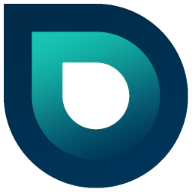
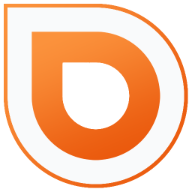
feat: add pallete

diff --git a/src/components/Header.tsx b/src/components/Header.tsx
@@ -89,7 +89,7 @@ export const Header: React.FC = () => {
             <span className="sr-only">Vain</span>
             <picture>
               <img
-                className="h-8 w-auto sm:h-10"
+                className="h-8 w-auto sm:h-14"
                 src="/logo.png"
                 alt="Vain logo"
               />
@@ -97,7 +97,7 @@ export const Header: React.FC = () => {
           </a>
         </div>
         <div className="-my-2 -mr-2 md:hidden">
-          <Popover.Button className="inline-flex items-center justify-center rounded-md bg-white p-2 text-gray-400 hover:bg-gray-100 hover:text-gray-500 focus:outline-none focus:ring-2 focus:ring-inset focus:ring-indigo-500">
+          <Popover.Button className="inline-flex items-center justify-center rounded-md bg-white p-2 text-gray-400 hover:bg-gray-100 hover:text-gray-500 focus:outline-none focus:ring-2 focus:ring-inset focus:ring-orange-500">
             <span className="sr-only">Open menu</span>
             <Bars3Icon className="h-6 w-6" aria-hidden="true" />
           </Popover.Button>
@@ -108,14 +108,14 @@ export const Header: React.FC = () => {
               <>
                 <Popover.Button
                   className={classNames(
-                    open ? 'text-gray-900' : 'text-gray-500',
-                    'group inline-flex items-center rounded-md bg-transparent text-base font-medium hover:text-gray-900 focus:outline-none focus:ring-2 focus:ring-indigo-500 focus:ring-offset-2'
+                    open ? 'text-gray-900' : 'text-gray-700',
+                    'group inline-flex items-center rounded-md bg-transparent text-base font-medium hover:text-gray-900 focus:outline-none focus:ring-2 focus:ring-orange-500 focus:ring-offset-2'
                   )}
                 >
                   <span>Solutions</span>
                   <ChevronDownIcon
                     className={classNames(
-                      open ? 'text-gray-600' : 'text-gray-400',
+                      open ? 'text-gray-600' : 'text-gray-700',
                       'ml-2 h-5 w-5 group-hover:text-gray-500'
                     )}
                     aria-hidden="true"
@@ -140,7 +140,7 @@ export const Header: React.FC = () => {
                             href={solution.href}
                             className="-m-3 flex items-start rounded-lg p-3 hover:bg-gray-50"
                           >
-                            <div className="flex h-10 w-10 flex-shrink-0 items-center justify-center rounded-md bg-indigo-500 text-white sm:h-12 sm:w-12">
+                            <div className="flex h-10 w-10 flex-shrink-0 items-center justify-center rounded-md bg-orange-500 text-white sm:h-12 sm:w-12">
                               <solution.icon
                                 className="h-6 w-6"
                                 aria-hidden="true"
@@ -166,7 +166,7 @@ export const Header: React.FC = () => {
                             <div className="text-base font-medium text-gray-900">
                               Enterprise
                             </div>
-                            <span className="ml-3 inline-flex items-center rounded-full bg-indigo-100 px-3 py-0.5 text-xs font-medium leading-5 text-indigo-800">
+                            <span className="ml-3 inline-flex items-center rounded-full bg-orange-100 px-3 py-0.5 text-xs font-medium leading-5 text-orange-800">
                               New
                             </span>
                           </div>
@@ -185,13 +185,13 @@ export const Header: React.FC = () => {
 
           <a
             href="#"
-            className="text-base font-medium text-gray-500 hover:text-gray-900"
+            className="text-base font-medium text-gray-700 hover:text-gray-900"
           >
             Pricing
           </a>
           <a
             href="#"
-            className="text-base font-medium text-gray-500 hover:text-gray-900"
+            className="text-base font-medium text-gray-700 hover:text-gray-900"
           >
             Docs
           </a>
@@ -201,14 +201,14 @@ export const Header: React.FC = () => {
               <>
                 <Popover.Button
                   className={classNames(
-                    open ? 'text-gray-900' : 'text-gray-500',
-                    'group inline-flex items-center rounded-md bg-white text-base font-medium hover:text-gray-900 focus:outline-none focus:ring-2 focus:ring-indigo-500 focus:ring-offset-2'
+                    open ? 'text-gray-900' : 'text-gray-700',
+                    'group inline-flex items-center rounded-md bg-transparent text-base font-medium hover:text-gray-900 focus:outline-none focus:ring-2 focus:ring-orange-500 focus:ring-offset-2'
                   )}
                 >
                   <span>More</span>
                   <ChevronDownIcon
                     className={classNames(
-                      open ? 'text-gray-600' : 'text-gray-400',
+                      open ? 'text-gray-600' : 'text-gray-700',
                       'ml-2 h-5 w-5 group-hover:text-gray-500'
                     )}
                     aria-hidden="true"
@@ -252,13 +252,13 @@ export const Header: React.FC = () => {
         <div className="hidden items-center justify-end md:flex md:flex-1 lg:w-0">
           <a
             href="#"
-            className="whitespace-nowrap text-base font-medium text-gray-500 hover:text-gray-900"
+            className="whitespace-nowrap text-base font-medium text-gray-700 hover:text-gray-900"
           >
             Sign in
           </a>
           <a
             href="#"
-            className="ml-8 inline-flex items-center justify-center whitespace-nowrap rounded-md border border-transparent bg-indigo-600 px-4 py-2 text-base font-medium text-white shadow-sm hover:bg-indigo-700"
+            className="ml-8 inline-flex items-center justify-center whitespace-nowrap rounded-md border border-transparent bg-orange-600 px-4 py-2 text-base font-medium text-white shadow-sm hover:bg-orange-700"
           >
             Sign up
           </a>
@@ -291,7 +291,7 @@ export const Header: React.FC = () => {
                   </picture>
                 </div>
                 <div className="-mr-2">
-                  <Popover.Button className="inline-flex items-center justify-center rounded-md bg-white p-2 text-gray-400 hover:bg-gray-100 hover:text-gray-500 focus:outline-none focus:ring-2 focus:ring-inset focus:ring-indigo-500">
+                  <Popover.Button className="inline-flex items-center justify-center rounded-md bg-white p-2 text-gray-400 hover:bg-gray-100 hover:text-gray-500 focus:outline-none focus:ring-2 focus:ring-inset focus:ring-orange-500">
                     <span className="sr-only">Close menu</span>
                     <XMarkIcon className="h-6 w-6" aria-hidden="true" />
                   </Popover.Button>
@@ -305,7 +305,7 @@ export const Header: React.FC = () => {
                       href={solution.href}
                       className="-m-3 flex items-center rounded-lg p-3 hover:bg-gray-50"
                     >
-                      <div className="flex h-10 w-10 flex-shrink-0 items-center justify-center rounded-md bg-indigo-500 text-white">
+                      <div className="flex h-10 w-10 flex-shrink-0 items-center justify-center rounded-md bg-orange-500 text-white">
                         <solution.icon className="h-6 w-6" aria-hidden="true" />
                       </div>
                       <div className="ml-4 text-base font-medium text-gray-900">
@@ -351,13 +351,13 @@ export const Header: React.FC = () => {
               <div className="mt-6">
                 <a
                   href="#"
-                  className="flex w-full items-center justify-center rounded-md border border-transparent bg-indigo-600 px-4 py-2 text-base font-medium text-white shadow-sm hover:bg-indigo-700"
+                  className="flex w-full items-center justify-center rounded-md border border-transparent bg-orange-600 px-4 py-2 text-base font-medium text-white shadow-sm hover:bg-orange-700"
                 >
                   Sign up
                 </a>
                 <p className="mt-6 text-center text-base font-medium text-gray-500">
                   Existing customer?{' '}
-                  <a href="#" className="text-indigo-600 hover:text-indigo-500">
+                  <a href="#" className="text-orange-600 hover:text-orange-500">
                     Sign in
                   </a>
                 </p>

diff --git a/src/components/Hero.tsx b/src/components/Hero.tsx
@@ -22,8 +22,8 @@ export const Hero: React.FC = () => {
               y2="474.645"
               gradientUnits="userSpaceOnUse"
             >
-              <stop stopColor="#9089FC" />
-              <stop offset={1} stopColor="#FF80B5" />
+              <stop stopColor="#ea580c" />
+              <stop offset={1} stopColor="#fb923c" />
             </linearGradient>
           </defs>
         </svg>
@@ -37,7 +37,7 @@ export const Hero: React.FC = () => {
                 <div className="relative overflow-hidden rounded-full py-1.5 px-4 text-sm leading-6 ring-1 ring-gray-900/10 hover:ring-gray-900/20">
                   <span className="text-gray-600">
                     Announcing our next round of funding.{' '}
-                    <a href="#" className="font-semibold text-indigo-600">
+                    <a href="#" className="font-semibold text-orange-600">
                       <span className="absolute inset-0" aria-hidden="true" />
                       Read more <span aria-hidden="true">&rarr;</span>
                     </a>
@@ -56,10 +56,10 @@ export const Hero: React.FC = () => {
                 <div className="mt-8 flex gap-x-4 sm:justify-center">
                   <a
                     href="#"
-                    className="inline-block rounded-lg bg-indigo-600 px-4 py-1.5 text-base font-semibold leading-7 text-white shadow-sm ring-1 ring-indigo-600 hover:bg-indigo-700 hover:ring-indigo-700"
+                    className="inline-block rounded-lg bg-orange-600 px-4 py-1.5 text-base font-semibold leading-7 text-white shadow-sm ring-1 ring-orange-600 hover:bg-orange-700 hover:ring-orange-700"
                   >
                     Get started{' '}
-                    <span className="text-indigo-200" aria-hidden="true">
+                    <span className="text-orange-200" aria-hidden="true">
                       &rarr;
                     </span>
                   </a>
@@ -95,8 +95,8 @@ export const Hero: React.FC = () => {
                       y2="474.645"
                       gradientUnits="userSpaceOnUse"
                     >
-                      <stop stopColor="#9089FC" />
-                      <stop offset={1} stopColor="#FF80B5" />
+                      <stop stopColor="#ea580c" />
+                      <stop offset={1} stopColor="#fb923c" />
                     </linearGradient>
                   </defs>
                 </svg>
